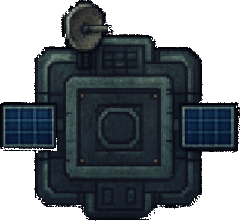
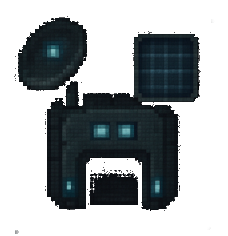
new bases and better dashboard

diff --git a/packages/nextjs/app/dashboard/page.tsx b/packages/nextjs/app/dashboard/page.tsx
@@ -9,6 +9,7 @@ import { useScaffoldReadContract } from "~~/hooks/scaffold-eth";
 import { useGameServerStats } from "~~/hooks/useGameServerStatus";
 import { usePilotsData } from "~~/hooks/usePilotsData";
 import { Pilot } from "~~/types/sector";
+import { BASE_SCALE_FACTORS, SHIP_SCALE_FACTORS } from "~~/utils/shipConstants";
 
 interface PlayerData {
   address: string;
@@ -28,15 +29,22 @@ const PilotRow = ({ pilot }: { pilot: Pilot }) => {
     return "text-error";
   };
 
+  // Get ship scale factor (shipType is 1-12, array is 0-11)
+  const shipScale = SHIP_SCALE_FACTORS[pilot.shipType - 1];
+  // Fixed container size to ensure consistent row heights
+  const containerSize = 48;
+  // Scale ship size based on factor
+  const shipSize = Math.round(containerSize * shipScale);
+
   return (
     <tr>
       <td>
-        <div className="flex items-center justify-center">
+        <div className="flex items-center justify-center" style={{ width: containerSize, height: containerSize }}>
           <Image
             src={`/ships/ship${pilot.shipType}.png`}
             alt={`Ship ${pilot.shipType}`}
-            width={32}
-            height={32}
+            width={shipSize}
+            height={shipSize}
             className="object-contain rotate-90"
             title={`Ship #${pilot.shipType}`}
           />
@@ -107,7 +115,7 @@ const PilotRow = ({ pilot }: { pilot: Pilot }) => {
   );
 };
 
-const PlayerRow = ({ player, index, sectorId }: { player: PlayerData; index: number; sectorId?: string }) => {
+const PlayerRow = ({ player, sectorId }: { player: PlayerData; sectorId?: string }) => {
   // Only allow social links that start with https://
   const isValidSocialUrl = player.social && player.social.startsWith("https://");
 
@@ -119,9 +127,31 @@ const PlayerRow = ({ player, index, sectorId }: { player: PlayerData; index: num
     return name;
   };
 
+  // For now, everyone starts with base1 (will be dynamic per player later)
+  const baseType = 1;
+  const baseScale = BASE_SCALE_FACTORS[baseType - 1];
+  // Container size for consistent row heights
+  const containerSize = 50;
+  // Scale base size based on factor (multiply by 2.8 for bigger image with minimal padding)
+  const baseSize = Math.round(containerSize * baseScale * 1.8);
+
   return (
     <tr>
-      <td className="text-xs">{index + 1}</td>
+      <td>
+        <div
+          className="flex items-center justify-center bg-black"
+          style={{ width: containerSize, height: containerSize }}
+        >
+          <Image
+            src={`/bases/base${baseType}.png`}
+            alt={`Base ${baseType}`}
+            width={baseSize}
+            height={baseSize}
+            className="object-contain"
+            title={`Base #${baseType}`}
+          />
+        </div>
+      </td>
       <td>
         {player.name ? (
           isValidSocialUrl ? (
@@ -549,7 +579,7 @@ const Dashboard: NextPage = () => {
                   <table className="table table-sm">
                     <thead>
                       <tr>
-                        <th>#</th>
+                        <th></th>
                         <th>Station Name</th>
                         <th>Address</th>
                         <th>Sector</th>
@@ -568,8 +598,8 @@ const Dashboard: NextPage = () => {
                           return { ...player, registryAddress, name, social, score, sectorId };
                         })
                         .sort((a, b) => (b.score || 0) - (a.score || 0)) // Sort by score, highest first
-                        .map((player, index) => (
-                          <PlayerRow key={player.address} player={player} index={index} sectorId={player.sectorId} />
+                        .map(player => (
+                          <PlayerRow key={player.address} player={player} sectorId={player.sectorId} />
                         ))}
                     </tbody>
                   </table>

diff --git a/packages/nextjs/components/SectorCanvas.tsx b/packages/nextjs/components/SectorCanvas.tsx
@@ -3,6 +3,7 @@
 import { useCallback, useEffect, useRef } from "react";
 import { Starfield } from "./Starfield";
 import { Asteroid, Particle, SECTOR_CONFIG, SectorSnapshot, Ship, Vector2D } from "~~/types/sector";
+import { BASE_SCALE_FACTORS, SHIP_SCALE_FACTORS } from "~~/utils/shipConstants";
 
 interface SectorCanvasProps {
   sectorData: SectorSnapshot | null;
@@ -58,6 +59,9 @@ export const SectorCanvas = ({ sectorData, particles, sectorId }: SectorCanvasPr
     scrap4: null,
   });
 
+  // For now, everyone starts with base1 (will be dynamic per sector/player later)
+  const baseIndex = 1;
+
   // Load ship images (1-12)
   useEffect(() => {
     const loadShipImage = (shipNumber: number) => {
@@ -77,7 +81,7 @@ export const SectorCanvas = ({ sectorData, particles, sectorId }: SectorCanvasPr
   // Load base image
   useEffect(() => {
     const img = new Image();
-    img.src = "/bases/base1.png";
+    img.src = `/bases/base${baseIndex}.png`;
     img.onload = () => {
       baseImageRef.current = img;
     };
@@ -211,13 +215,16 @@ export const SectorCanvas = ({ sectorData, particles, sectorId }: SectorCanvasPr
     const canvasCenterY = centerY * scale;
 
     // Draw base image centered at the middle of the sector
-    const baseSize = 128 * scale; // Adjust size as needed
+    // Use natural image dimensions scaled by canvas scale factor and custom base scale
+    const customScale = BASE_SCALE_FACTORS[baseIndex - 1]; // baseIndex is 1-6, array is 0-5
+    const baseWidth = baseImageRef.current.naturalWidth * scale * customScale;
+    const baseHeight = baseImageRef.current.naturalHeight * scale * customScale;
     ctx.drawImage(
       baseImageRef.current,
-      canvasCenterX - baseSize / 2, // Center horizontally
-      canvasCenterY - baseSize / 2, // Center vertically
-      baseSize,
-      baseSize,
+      canvasCenterX - baseWidth / 2, // Center horizontally
+      canvasCenterY - baseHeight / 2, // Center vertically
+      baseWidth,
+      baseHeight,
     );
 
     ctx.restore();
@@ -423,7 +430,8 @@ export const SectorCanvas = ({ sectorData, particles, sectorId }: SectorCanvasPr
         // Draw ship PNG image (centered)
         const shipImage = shipImagesRef.current[ship.shipType];
         if (shipImage) {
-          const shipSize = 72 * scale; // Size of the ship image (50% bigger than doubled: 48 * 1.5)
+          const customShipScale = SHIP_SCALE_FACTORS[ship.shipType - 1]; // shipType is 1-12, array is 0-11
+          const shipSize = 72 * scale * customShipScale; // Apply custom scale for this ship type
 
           ctx.drawImage(
             shipImage,

diff --git a/packages/nextjs/contracts/deployedContracts.ts b/packages/nextjs/contracts/deployedContracts.ts
@@ -7,7 +7,7 @@ import { GenericContractsDeclaration } from "~~/utils/scaffold-eth/contract";
 const deployedContracts = {
   31337: {
     Universe: {
-      address: "0xed1db453c3156ff3155a97ad217b3087d5dc5f6e",
+      address: "0xdbd296711ec8ef9aacb623ee3f1c0922dce0d7b2",
       abi: [
         {
           type: "constructor",
@@ -367,10 +367,10 @@ const deployedContracts = {
         },
       ],
       inheritedFunctions: {},
-      deployedOnBlock: 919,
+      deployedOnBlock: 2386,
     },
     Credits: {
-      address: "0xf7cd8fa9b94db2aa972023b379c7f72c65e4de9d",
+      address: "0xdfd787c807dea8d7e53311b779bc0c6a4704d286",
       abi: [
         {
           type: "constructor",
@@ -852,10 +852,10 @@ const deployedContracts = {
         },
       ],
       inheritedFunctions: {},
-      deployedOnBlock: 920,
+      deployedOnBlock: 2387,
     },
     Game: {
-      address: "0x12975173b87f7595ee45dffb2ab812ece596bf84",
+      address: "0x6d014319e0f36651997697c98da594c7cf235fa4",
       abi: [
         {
           type: "constructor",
@@ -1832,10 +1832,10 @@ const deployedContracts = {
         },
       ],
       inheritedFunctions: {},
-      deployedOnBlock: 921,
+      deployedOnBlock: 2388,
     },
     MaxExtract: {
-      address: "0x82dc47734901ee7d4f4232f398752cb9dd5daccc",
+      address: "0x5621d0b4d8043524ac5837918d6a95b1050ef228",
       abi: [
         {
           type: "constructor",
@@ -2193,7 +2193,7 @@ const deployedContracts = {
         },
       ],
       inheritedFunctions: {},
-      deployedOnBlock: 921,
+      deployedOnBlock: 2389,
     },
   },
   42161: {

diff --git a/packages/nextjs/utils/shipConstants.ts b/packages/nextjs/utils/shipConstants.ts
@@ -1,0 +1,10 @@
+// Ship scale factors for visual balance across different ship types
+// Ships 1-3: Starter ships (smallest)
+// Ships 4-7: Medium tier
+// Ships 8-11: Advanced tier
+// Ship 12: Flagship (largest)
+export const SHIP_SCALE_FACTORS = [0.85, 0.85, 0.85, 1.2, 1.2, 1.2, 1.2, 1.35, 1.35, 1.35, 1.35, 1.5];
+
+// Base scale factors for each base tier
+// These will be used when players upgrade their bases through the game
+export const BASE_SCALE_FACTORS = [0.4, 0.5, 0.8, 0.8, 0.95, 1.0];
